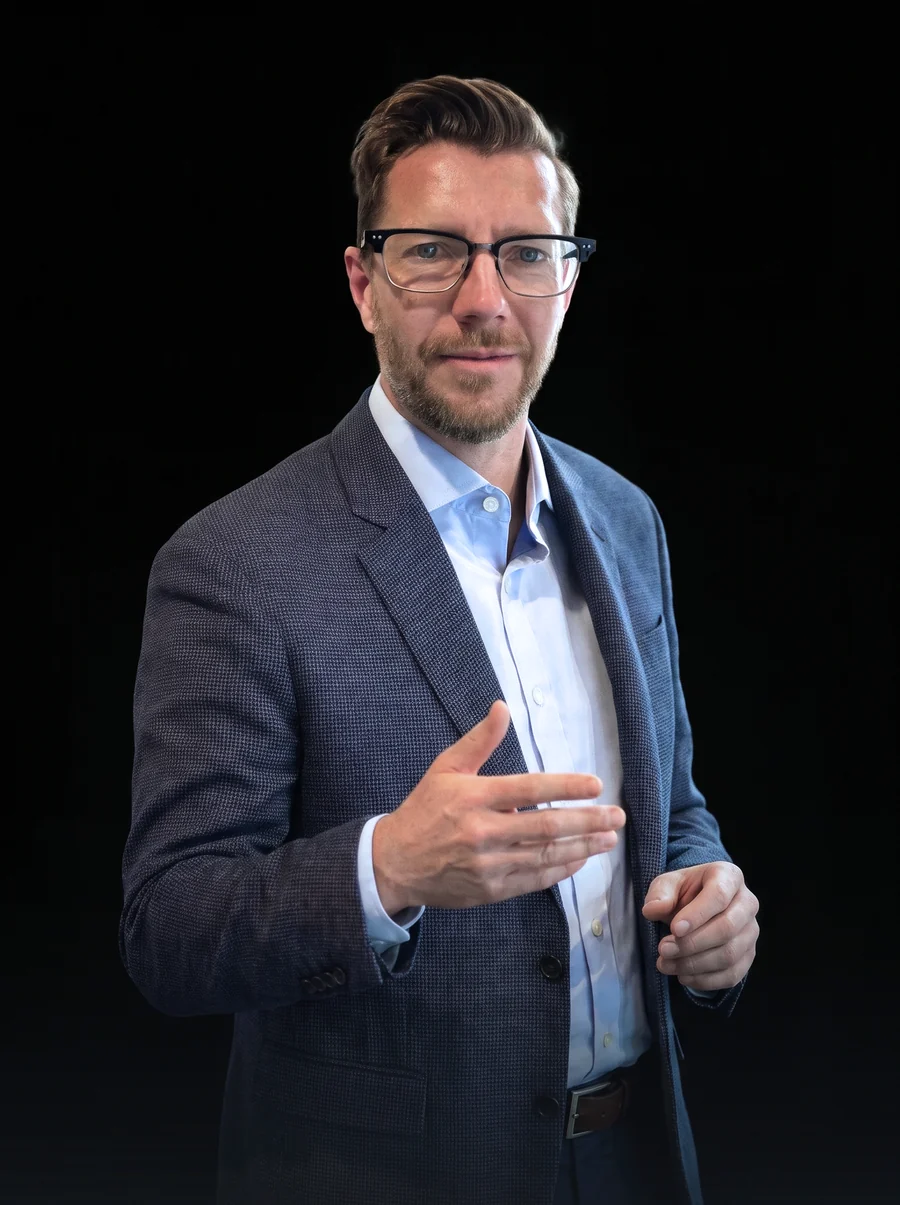
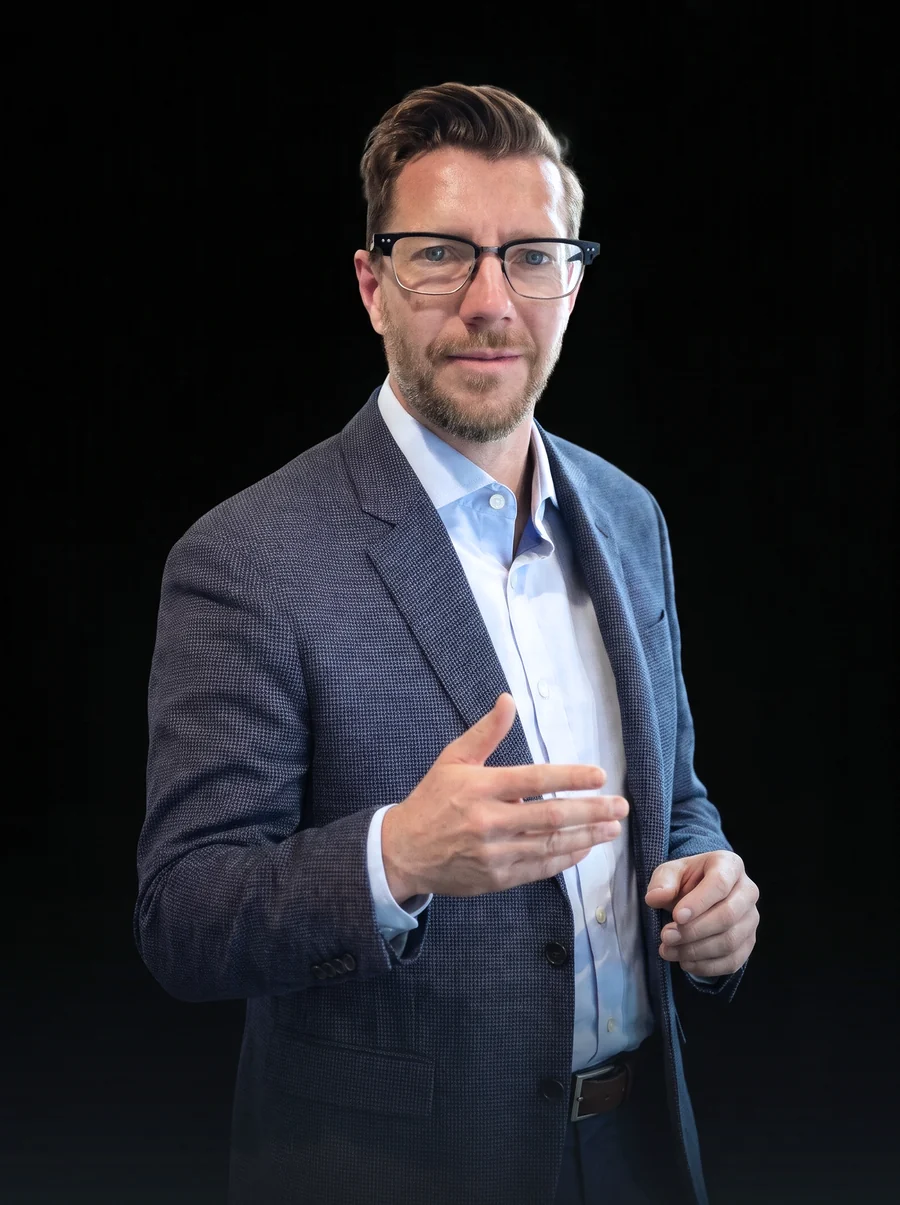
연사 세션3 Scott Oakland 사진 교체 (새로 저장한 이미지)
Claude-Session: https://claude.ai/code/session_01Mn7Nn1Mw9LaHJEmW4pK4Vg

Changed region(s): [[0.1244, 0.0614, 0.8711, 1.0]]

diff --git a/index.html b/index.html
@@ -601,7 +601,7 @@ html.rg-lock{overflow:hidden}
       <ul class="spk">
         <li><img src="assets/speaker1-1.webp?v=1239" width="900" height="1205" alt="김승준 변호사" loading="lazy" decoding="async"><div class="cap"><p class="ss">세션 1</p><h3>김승준 변호사</h3><p class="org">김앤장 법률사무소</p><p class="topic">전자주주총회 제도 도입 및 진행 관련 주요 실무 쟁점</p></div></li>
         <li><img src="assets/speaker2.webp" width="900" height="1205" alt="권재열 교수" loading="lazy" decoding="async"><div class="cap"><p class="ss">세션 2</p><h3>권재열 교수</h3><p class="org">경희대 법학전문대학원</p><p class="topic">상법 개정과 전자주총이 몰고 올 기업 경영의 지각변동</p></div></li>
-        <li><img src="assets/speaker-scott.webp" width="900" height="1205" alt="Scott Oakland" loading="lazy" decoding="async"><div class="cap"><p class="ss">세션 3</p><h3>Scott Oakland</h3><p class="org">Proxymity, Head of APAC</p><p class="topic">전자주총 시대, Proxymity가 한국 발행사에 제공하는 가치</p></div></li>
+        <li><img src="assets/speaker-scott.webp?v=1409" width="900" height="1205" alt="Scott Oakland" loading="lazy" decoding="async"><div class="cap"><p class="ss">세션 3</p><h3>Scott Oakland</h3><p class="org">Proxymity, Head of APAC</p><p class="topic">전자주총 시대, Proxymity가 한국 발행사에 제공하는 가치</p></div></li>
         <li><img src="assets/speaker3-1.webp?v=1830" width="900" height="1205" alt="박성용 본부장" loading="lazy" decoding="async"><div class="cap"><p class="ss">세션 4</p><h3>박성용 본부장</h3><p class="org">IR큐더스</p><p class="topic">전자주주총회 도입 · 운영 방안 및 통합 솔루션 소개, 모의 전자주주총회 시연</p></div></li>
       </ul>
     </div>
